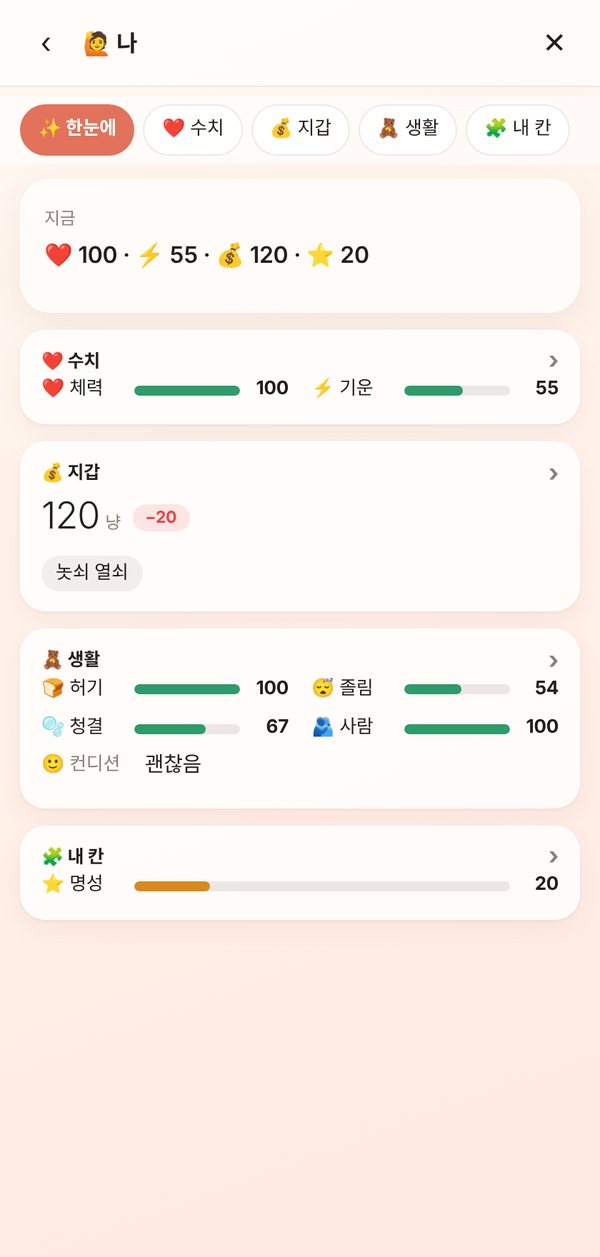
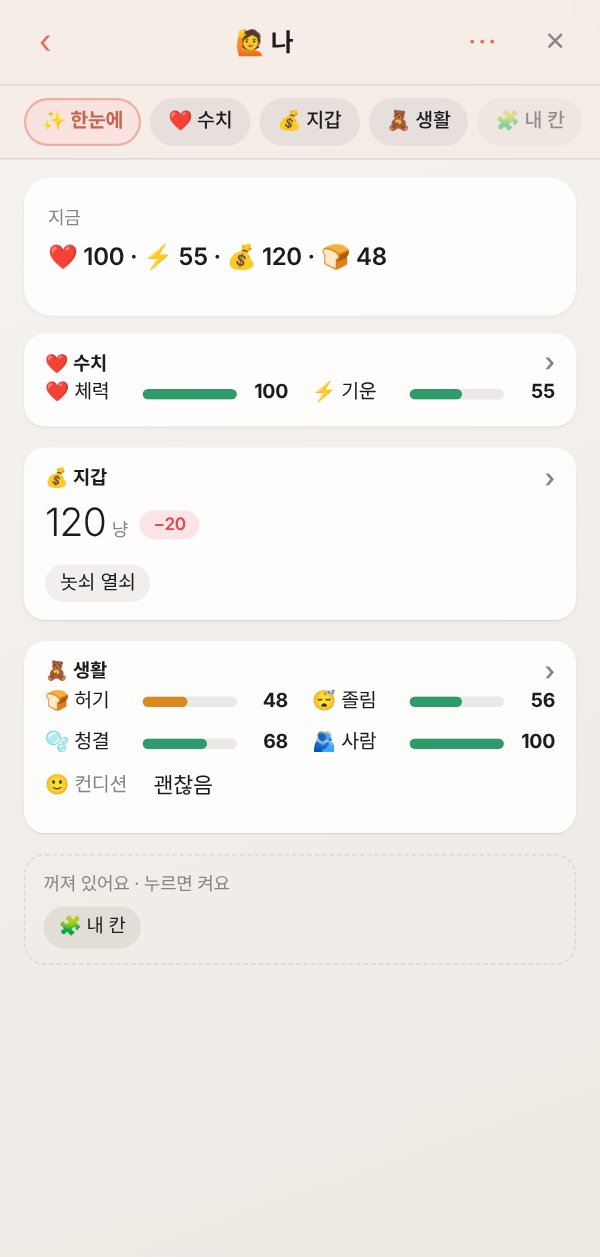
다시 넣음: phone.css 겹친 규칙 정리 · README 캡처를 지금 화면으로
Claude-Session: https://claude.ai/code/session_01GwsfwdMgNNbz4buD2Lfpie

diff --git a/phone.css b/phone.css
@@ -1,14 +1,13 @@
 /* Meatball — the phone. Fetched the first time it is opened. Every selector starts with .mb4-. */
 .mb4-phone {
-    --bg1: #fff8f1; --bg2: #ffe9e1; --card: rgba(255, 255, 255, .78); --line: rgba(70, 45, 35, .1);
-    --fg: #231d1b; --sub: #8c7f79; --a: #e2725b; --a-soft: rgba(226, 114, 91, .14);
+      --a: #e2725b; --a-soft: rgba(226, 114, 91, .14);
     --good: #2f9a6a; --bad: #e5484d; --mid: #d98a1f; --love: #e0567f;
     display: none; position: fixed; z-index: 4000; top: 0; bottom: 0; right: 0; width: 420px; max-width: 100vw;
     flex-direction: column; overflow: hidden;
     color: var(--fg); background: linear-gradient(160deg, var(--bg1) 0%, var(--bg2) 100%);
     border-left: 1px solid var(--line); box-shadow: -10px 0 40px rgba(0, 0, 0, .22);
     font-family: -apple-system, 'Apple SD Gothic Neo', 'Pretendard', 'Noto Sans KR', 'Malgun Gothic', system-ui, sans-serif;
-    font-size: 14.5px; line-height: 1.5; letter-spacing: -.01em; text-align: left;
+     line-height: 1.5;  text-align: left;
 }
 .mb4-phone.mb4-left { right: auto; left: 0; border-left: 0; border-right: 1px solid var(--line); box-shadow: 10px 0 40px rgba(0, 0, 0, .22); }
 .mb4-phone.mb4-open { display: flex; }
@@ -20,23 +19,23 @@
 .mb4-phone h3, .mb4-phone h5, .mb4-phone p { margin: 0; color: inherit; }
 
 /* top bar: a status bar at home, a title bar inside an app */
-.mb4-top { display: flex; align-items: center; gap: 4px; flex: none; padding: 8px 10px; min-height: 52px; }
-.mb4-title { flex: 1; font-weight: 700; font-size: 16px; overflow-wrap: anywhere; }
-.mb4-phone:not(.mb4-at-home) .mb4-top { background: rgba(255, 255, 255, .6); border-bottom: 1px solid var(--line); backdrop-filter: blur(10px); }
+.mb4-top { display: flex; align-items: center; gap: 4px; flex: none; }
+.mb4-title { flex: 1;   overflow-wrap: anywhere; }
+.mb4-phone:not(.mb4-at-home) .mb4-top { background: rgba(255, 255, 255, .6);  backdrop-filter: blur(10px); }
 .mb4-at-home [data-back] { display: none; }
 .mb4-at-home .mb4-title { padding-left: 8px; font-size: 14px; }
 .mb4-status { display: none; align-items: center; gap: 6px; margin-right: 4px; }
 .mb4-at-home .mb4-status { display: inline-flex; }
 .mb4-sig { width: 16px; height: 10px; background: linear-gradient(90deg, var(--fg) 0 3px, transparent 3px 4px, var(--fg) 4px 7px, transparent 7px 8px, var(--fg) 8px 11px, transparent 11px 12px, var(--fg) 12px 15px, transparent 15px); -webkit-mask: linear-gradient(to top right, #000 50%, transparent 50%); mask: linear-gradient(to top right, #000 50%, transparent 50%); }
 .mb4-batt { width: 22px; height: 11px; border: 1.5px solid var(--fg); border-radius: 3.5px; background: linear-gradient(90deg, var(--fg) 78%, transparent 78%) content-box; padding: 1px; }
-.mb4-ico { width: 38px; height: 38px; flex: none; border: 0; border-radius: 50%; background: transparent; font-size: 20px; line-height: 1; display: grid; place-items: center; }
-.mb4-ico:hover, .mb4-ico:focus-visible { background: rgba(70, 45, 35, .08); }
-.mb4-body { flex: 1; overflow-y: auto; padding: 6px 14px 22px; overscroll-behavior: contain; -webkit-overflow-scrolling: touch; scrollbar-width: thin; }
+.mb4-ico { width: 38px; height: 38px; flex: none; border: 0; border-radius: 50%; background: transparent;  line-height: 1; display: grid; place-items: center; }
+
+.mb4-body { flex: 1; overflow-y: auto;  overscroll-behavior: contain; -webkit-overflow-scrolling: touch; scrollbar-width: thin; }
 
 /* cards */
-.mb4-card { display: block; margin: 0 0 12px; padding: 13px 14px; border-radius: 18px; background: var(--card); border: 1px solid rgba(255, 255, 255, .7); box-shadow: 0 1px 2px rgba(120, 70, 50, .06), 0 6px 18px rgba(120, 70, 50, .06); overflow-wrap: anywhere; }
+.mb4-card { display: block; margin: 0 0 12px;  border-radius: 18px; background: var(--card); border: 1px solid rgba(255, 255, 255, .7); box-shadow: 0 1px 2px rgba(120, 70, 50, .06), 0 6px 18px rgba(120, 70, 50, .06); overflow-wrap: anywhere; }
 .mb4-card.warn { background: rgba(255, 238, 205, .9); }
-.mb4-card-h { display: flex; align-items: center; gap: 6px; margin: 0 0 8px; font-size: 12.5px; font-weight: 700; color: var(--sub); }
+.mb4-card-h { display: flex; align-items: center; gap: 6px; }
 .mb4-chev { margin-left: auto; font-size: 17px; line-height: 1; color: var(--sub); }
 .mb4-widget, [data-go].mb4-hero { cursor: pointer; }
 .mb4-widget:hover { box-shadow: 0 1px 2px rgba(120, 70, 50, .08), 0 8px 22px rgba(120, 70, 50, .12); }
@@ -45,11 +44,11 @@ details.mb4-card > summary::after { content: '›'; margin-left: auto; color: va
 details.mb4-card[open] > summary::after { transform: rotate(90deg); }
 details.mb4-card[open] > summary { margin-bottom: 10px; }
 details.mb4-card > summary::-webkit-details-marker { display: none; }
-.mb4-sec { margin: 18px 4px 8px; font-size: 13px; font-weight: 700; }
+
 .mb4-sec small { margin-left: 6px; }
 .mb4-lead { margin: 0 2px 10px; color: var(--sub); font-size: 13px; }
 .mb4-hint { margin: 8px 2px 0; font-size: 12.5px; color: var(--sub); overflow-wrap: anywhere; }
-.mb4-banner { margin: 0 0 12px; padding: 10px 14px; border-radius: 14px; background: rgba(255, 224, 170, .8); font-size: 13px; }
+.mb4-banner { margin: 0 0 12px; padding: 10px 14px;  background: rgba(255, 224, 170, .8); font-size: 13px; }
 .mb4-banner.soft { background: rgba(255, 255, 255, .55); color: var(--sub); }
 .mb4-big { font-size: 17px; font-weight: 700; }
 .mb4-center { text-align: center; }
@@ -60,9 +59,9 @@ details.mb4-card > summary::-webkit-details-marker { display: none; }
 .mb4-catch b { font-size: 15px; }
 
 /* hero */
-.mb4-hero { margin: 0 0 12px; padding: 18px 16px; border-radius: 22px; background: rgba(255, 255, 255, .62); border: 1px solid rgba(255, 255, 255, .8); box-shadow: 0 8px 26px rgba(120, 70, 50, .08); }
+.mb4-hero { margin: 0 0 12px; padding: 18px 16px; }
 .mb4-hero > small { display: block; }
-.mb4-hero-n { font-size: 38px; font-weight: 300; line-height: 1.15; letter-spacing: -.03em; }
+.mb4-hero-n { font-size: 38px;  line-height: 1.15; letter-spacing: -.03em; }
 .mb4-hero-n small { font-size: 15px; }
 .mb4-hero-s { margin-top: 2px; font-weight: 700; font-size: 14px; }
 .mb4-hero-m { margin-top: 6px; color: var(--sub); font-size: 13px; display: flex; flex-wrap: wrap; gap: 4px 8px; }
@@ -73,7 +72,7 @@ details.mb4-card > summary::-webkit-details-marker { display: none; }
 .mb4-grid { display: grid; grid-template-columns: repeat(4, 1fr); gap: 14px 4px; margin: 4px 0 8px; }
 .mb4-tile { display: flex; flex-direction: column; align-items: center; gap: 6px; padding: 2px 0; border: 0; background: transparent; }
 .mb4-tile-name { font-size: 12px; text-align: center; overflow-wrap: anywhere; }
-.mb4-app-ico { display: grid; place-items: center; flex: none; width: 56px; height: 56px; border-radius: 17px; font-size: 27px; background: linear-gradient(150deg, color-mix(in srgb, var(--c) 78%, #fff), var(--c)); box-shadow: 0 4px 10px color-mix(in srgb, var(--c) 35%, transparent); }
+.mb4-app-ico { display: grid; place-items: center; flex: none; width: 56px; height: 56px; border-radius: 17px; font-size: 27px; background: linear-gradient(150deg, color-mix(in srgb, var(--c) 78%, #fff), var(--c)); }
 .mb4-tile:active .mb4-app-ico { transform: scale(.94); }
 
 /* first question */
@@ -102,31 +101,31 @@ details.mb4-card > summary::-webkit-details-marker { display: none; }
 .mb4-item-t { flex: 1; min-width: 0; }
 .mb4-item-t b { font-size: 15px; margin-right: 6px; }
 .mb4-item-t small { display: block; margin-top: 2px; line-height: 1.4; }
-.mb4-get { flex: none; min-width: 58px !important; padding: 6px 12px; border: 0; border-radius: 999px; background: var(--a); color: #fff !important; font-weight: 700 !important; font-size: 13px !important; }
-.mb4-get.on { background: rgba(70, 45, 35, .09); color: var(--sub) !important; }
+.mb4-get { flex: none; min-width: 58px !important; padding: 6px 12px; border: 0; border-radius: 999px;   font-weight: 700 !important; font-size: 13px !important; }
+
 .mb4-get:disabled { opacity: .5; }
-.mb4-badge { display: inline-block; padding: 1px 7px; margin-right: 4px; border-radius: 999px; font-size: 10.5px; font-weight: 700; background: rgba(70, 45, 35, .08); color: var(--sub); white-space: nowrap; vertical-align: 1px; }
+.mb4-badge { display: inline-block; padding: 1px 7px; margin-right: 4px; border-radius: 999px; font-size: 10.5px;   color: var(--sub); white-space: nowrap; vertical-align: 1px; }
 .mb4-badge.zero { background: rgba(47, 154, 106, .15); color: #1f7a52; }
 .mb4-badge.low { background: rgba(58, 142, 230, .14); color: #2468b4; }
 .mb4-badge.tap { background: rgba(124, 92, 255, .14); color: #5a3fd0; }
 
 /* controls */
-.mb4-btn { min-height: 38px; padding: 7px 15px; border: 0; border-radius: 12px; background: var(--a); color: #fff !important; font-weight: 700 !important; flex: none; }
+.mb4-btn { border: 0;     flex: none; }
 .mb4-btn:disabled { opacity: .4; cursor: default; }
-.mb4-btn.ghost { background: rgba(70, 45, 35, .08); color: var(--fg) !important; }
-.mb4-btn.sm { min-height: 30px; padding: 4px 11px; font-size: 12.5px !important; border-radius: 10px; }
-.mb4-btn.wide { display: block; width: 100%; margin: 0 0 8px; min-height: 44px; border-radius: 14px; }
+
+.mb4-btn.sm { font-size: 12.5px !important; }
+.mb4-btn.wide { display: block; width: 100%; margin: 0 0 8px; }
 .mb4-btnrow { display: flex; flex-wrap: wrap; align-items: center; gap: 8px; margin-top: 10px; }
 .mb4-btnrow.tight { margin-top: 0; gap: 4px; }
 .mb4-btnrow > .mb4-input { flex: 1; margin: 0; min-width: 0; }
-.mb4-link { border: 0; background: none; padding: 0; text-align: left; flex: 1; color: var(--a) !important; }
-.mb4-x { flex: none; width: 22px; height: 22px; padding: 0; margin-left: 4px; border: 0; border-radius: 50%; background: rgba(70, 45, 35, .08); font-size: 10px !important; line-height: 1; color: var(--sub) !important; }
+.mb4-link { border: 0; background: none; padding: 0; text-align: left; flex: 1; }
+.mb4-x { flex: none; width: 22px; height: 22px; padding: 0; margin-left: 4px; border: 0; border-radius: 50%;  font-size: 10px !important; line-height: 1; color: var(--sub) !important; }
 .mb4-label { display: block; font-size: 12.5px; font-weight: 700; color: var(--sub); margin-bottom: 10px; }
 .mb4-input { display: block; width: 100%; margin: 5px 0 0; padding: 9px 11px; border-radius: 11px; border: 1px solid var(--line); background: rgba(255, 255, 255, .85); color: var(--fg); font-weight: 400; outline: 0; box-shadow: none; }
 .mb4-input:focus { border-color: var(--a); }
 /* the host theme styles every input, select and textarea on the page: ours keep the phone's own look */
-.mb4-phone .mb4-input { background: rgba(255, 255, 255, .85) !important; color: var(--fg) !important; border: 1px solid var(--line) !important; border-radius: 11px !important; box-shadow: none !important; font-size: 14.5px !important; }
-.mb4-phone .mb4-input:focus { border-color: var(--a) !important; }
+.mb4-phone .mb4-input { box-shadow: none !important; font-size: 14.5px !important; }
+
 .mb4-phone .mb4-input::placeholder { color: var(--sub); opacity: .8; }
 .mb4-phone select.mb4-input { background-image: none !important; appearance: auto; }
 .mb4-input.mb4-short { flex: 0 0 76px; width: 76px; }
@@ -138,23 +137,23 @@ textarea.mb4-input { resize: vertical; min-height: 44px; }
 .mb4-sw > span { display: flex; flex-direction: column; min-width: 0; }
 .mb4-sw b { font-weight: 600; }
 .mb4-sw input { position: absolute; opacity: 0; pointer-events: none; }
-.mb4-sw i { flex: none; width: 44px; height: 26px; border-radius: 999px; background: rgba(70, 45, 35, .16); position: relative; transition: background .15s; }
+.mb4-sw i { flex: none; width: 44px; height: 26px; border-radius: 999px;  position: relative; transition: background .15s; }
 .mb4-sw i::after { content: ''; position: absolute; top: 3px; left: 3px; width: 20px; height: 20px; border-radius: 50%; background: #fff; box-shadow: 0 1px 3px rgba(0, 0, 0, .25); transition: transform .15s; }
-.mb4-sw input:checked + i { background: var(--good); }
+
 .mb4-sw input:checked + i::after { transform: translateX(18px); }
 .mb4-sw input:disabled + i { opacity: .4; }
 .mb4-pre { margin: 8px 0 0; padding: 10px; border-radius: 10px; background: rgba(70, 45, 35, .06); font: 12px/1.5 ui-monospace, Menlo, Consolas, monospace; white-space: pre-wrap; overflow-wrap: anywhere; max-height: 260px; overflow-y: auto; }
-.mb4-opt { padding: 6px 12px; border: 1px solid var(--line); border-radius: 999px; background: rgba(255, 255, 255, .8); font-size: 13px !important; }
+.mb4-opt { border-radius: 999px;  font-size: 13px !important; }
 .mb4-opt.on { background: var(--a); border-color: var(--a); color: #fff !important; font-weight: 700 !important; }
 
 /* small pieces */
-.mb4-row { display: flex; align-items: center; gap: 10px; padding: 5px 0; }
+.mb4-row { display: flex; align-items: center; gap: 10px; }
 .mb4-row + .mb4-row { border-top: 1px solid var(--line); }
 .mb4-row-k { flex: none; min-width: 4.8em; color: var(--sub); font-size: 13px; }
 .mb4-row-v { flex: 1; min-width: 0; overflow-wrap: anywhere; }
 .mb4-chips { display: flex; flex-wrap: wrap; gap: 6px; }
 .mb4-chip { display: inline-flex; align-items: center; padding: 3px 10px; border-radius: 999px; background: rgba(70, 45, 35, .07); font-size: 13px; overflow-wrap: anywhere; }
-.mb4-pill { display: inline-block; flex: none; padding: 1px 9px; border-radius: 999px; font-size: 11.5px; font-weight: 700; background: var(--a-soft); color: var(--a); white-space: nowrap; }
+.mb4-pill { display: inline-block; flex: none; padding: 1px 9px; border-radius: 999px; font-size: 11.5px;  background: var(--a-soft); color: var(--a); white-space: nowrap; }
 .mb4-pill.good { background: rgba(47, 154, 106, .14); color: var(--good); }
 .mb4-pill.bad { background: rgba(229, 72, 77, .13); color: var(--bad); }
 .mb4-meter { flex: 1; min-width: 40px; height: 7px; border-radius: 999px; background: rgba(70, 45, 35, .1); overflow: hidden; display: block; }
@@ -231,13 +230,13 @@ textarea.mb4-input { resize: vertical; min-height: 44px; }
 .mb4-hr { border: 0; border-top: 1px solid var(--line); margin: 8px 0; }
 
 /* ── 4.1: three shelves, entry rows, inner tabs, person cards ── */
-.mb4-shelves { display: grid; grid-template-columns: repeat(3, 1fr); gap: 6px; margin: 0 0 8px; padding: 4px; border-radius: 16px; background: rgba(255, 255, 255, .5); position: sticky; top: -6px; z-index: 3; backdrop-filter: blur(8px); }
-.mb4-shelf { display: flex; align-items: center; justify-content: center; gap: 5px; padding: 9px 4px; border: 0; border-radius: 12px; background: transparent; font-size: 14px !important; color: var(--sub) !important; }
+.mb4-shelves { gap: 6px;    background: rgba(255, 255, 255, .5); position: sticky;  z-index: 3; backdrop-filter: blur(8px); }
+.mb4-shelf { display: flex; align-items: center; justify-content: center; gap: 5px;  border: 0; border-radius: 12px; background: transparent; font-size: 14px !important; color: var(--sub) !important; }
 .mb4-shelf.on { background: #fff; color: var(--fg) !important; box-shadow: 0 2px 8px rgba(120, 70, 50, .12); }
-.mb4-shelf small { min-width: 18px; padding: 0 5px; border-radius: 999px; background: rgba(70, 45, 35, .1); font-size: 11px !important; line-height: 18px; }
+.mb4-shelf small { min-width: 18px; padding: 0 5px; border-radius: 999px;  font-size: 11px !important; line-height: 18px; }
 .mb4-shelf.on small { background: var(--a); color: #fff !important; }
 .mb4-ents { border-radius: 18px; background: var(--card); border: 1px solid rgba(255, 255, 255, .7); box-shadow: 0 6px 18px rgba(120, 70, 50, .06); margin: 0 0 12px; overflow: hidden; }
-.mb4-ent { display: flex; align-items: center; gap: 12px; padding: 11px 12px; cursor: pointer; }
+.mb4-ent { display: flex; align-items: center; gap: 12px;  cursor: pointer; }
 .mb4-ent + .mb4-ent { border-top: 1px solid var(--line); }
 .mb4-ent:active { background: rgba(0, 0, 0, .03); }
 .mb4-ent .mb4-app-ico { width: 44px; height: 44px; border-radius: 14px; font-size: 21px; }
@@ -251,13 +250,13 @@ textarea.mb4-input { resize: vertical; min-height: 44px; }
 .mb4-ent-parts i { font-style: normal; filter: grayscale(1); opacity: .3; }
 .mb4-ent-parts i.on { filter: none; opacity: 1; }
 .mb4-ent .mb4-chev { flex: none; color: var(--sub); }
-.mb4-load { display: flex; justify-content: space-between; gap: 8px; padding: 10px 14px; border-radius: 14px; background: rgba(255, 255, 255, .5); font-size: 12.5px; color: var(--sub); cursor: pointer; }
-.mb4-tabs { display: flex; gap: 6px; overflow-x: auto; margin: 0 -14px 10px; padding: 6px 14px; position: sticky; top: -6px; z-index: 3; background: color-mix(in srgb, var(--card) 70%, transparent); backdrop-filter: blur(8px); scrollbar-width: none; }
+.mb4-load { display: flex; justify-content: space-between; gap: 8px; padding: 10px 14px; border-radius: 14px;  font-size: 12.5px; color: var(--sub); cursor: pointer; }
+.mb4-tabs { display: flex;  overflow-x: auto;   position: sticky;  z-index: 3; background: color-mix(in srgb, var(--card) 70%, transparent); backdrop-filter: blur(8px); scrollbar-width: none; }
 .mb4-tabs::-webkit-scrollbar { display: none; }
-.mb4-tab { flex: none; padding: 7px 12px; border: 1px solid var(--line); border-radius: 999px; background: rgba(255, 255, 255, .8); font-size: 13px !important; white-space: nowrap; }
+.mb4-tab { flex: none;   border-radius: 999px;  font-size: 13px !important; white-space: nowrap; }
 .mb4-tab.on { background: var(--a); border-color: var(--a); color: #fff !important; font-weight: 700 !important; }
-.mb4-tab.off:not(.on) { opacity: .5; border-style: dashed; }
-.mb4-tabfoot { display: flex; align-items: center; justify-content: flex-end; gap: 8px; margin: 14px 0 0; padding-top: 10px; border-top: 1px dashed var(--line); }
+.mb4-tab.off:not(.on) { border-style: dashed; }
+.mb4-tabfoot { display: flex; align-items: center; justify-content: flex-end; gap: 8px; margin: 14px 0 0; padding-top: 10px; }
 .mb4-tabfoot .mb4-link { flex: none; color: var(--sub) !important; font-size: 12.5px !important; }
 .mb4-offcard { display: flex; flex-direction: column; align-items: center; gap: 8px; text-align: center; padding: 26px 18px; border-radius: 20px; background: var(--card); }
 .mb4-offcard .mb4-app-ico { filter: grayscale(.6); }
@@ -284,7 +283,7 @@ textarea.mb4-input { resize: vertical; min-height: 44px; }
 .mb4-pill.love { background: color-mix(in srgb, var(--love) 16%, #fff); color: var(--love) !important; }
 .mb4-sum small { color: var(--sub); }
 .mb4-sum-t { margin: 4px 0 10px; font-size: 16px; line-height: 1.5; font-weight: 600; }
-.mb4-tip { margin: 0 0 10px; padding: 9px 12px; border-radius: 12px; background: rgba(255, 236, 170, .45); font-size: 12.5px; line-height: 1.45; color: var(--fg); }
+.mb4-tip { margin: 0 0 10px; padding: 9px 12px;   font-size: 12.5px; line-height: 1.45; color: var(--fg); }
 
 /* 🎨 looks */
 .mb4-walls { display: grid; grid-template-columns: repeat(4, 1fr); gap: 8px; }
@@ -298,7 +297,7 @@ textarea.mb4-input { resize: vertical; min-height: 44px; }
 .mb4-sticky span { flex: 1; }
 .mb4-sticky .mb4-x { color: #8a7420; }
 .mb4-edcard > summary { cursor: pointer; font-weight: 700; }
-.mb4-edrow { padding: 8px 0; border-top: 1px solid var(--line); }
+.mb4-edrow { padding: 8px 0; }
 .mb4-edrow small { display: block; margin-bottom: 4px; }
 .mb4-edrow textarea { resize: vertical; min-height: 34px; }
 .mb4-icoin { flex: 0 0 52px !important; width: 52px !important; text-align: center; }
